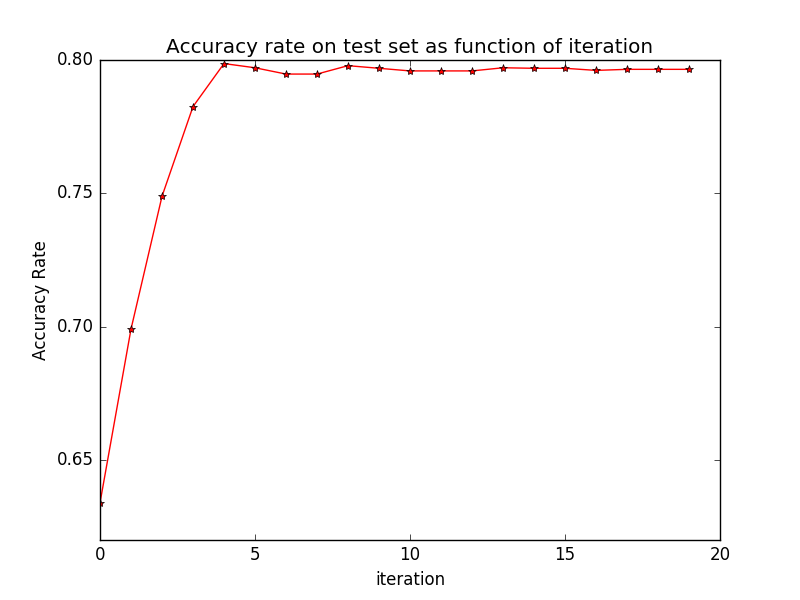
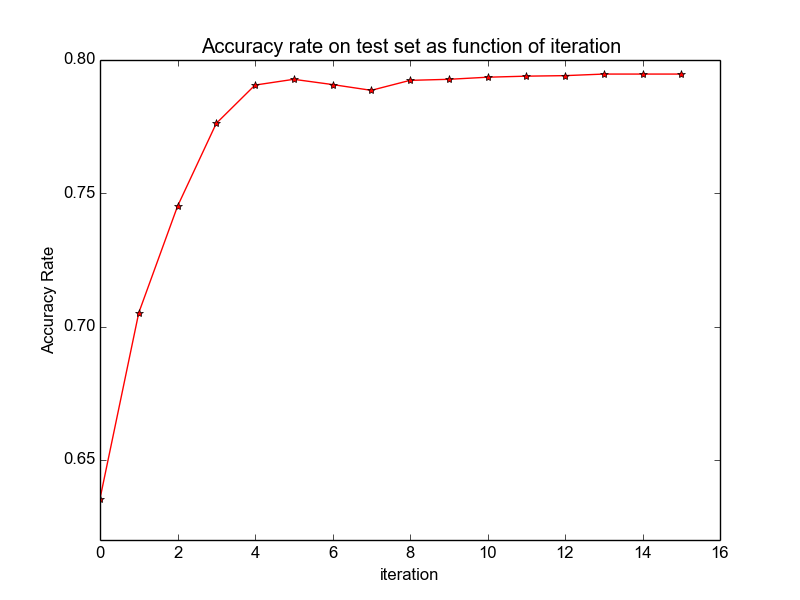
Finish hw5, update plots.

diff --git a/ml_hw5/q4_gmm.py b/ml_hw5/q4_gmm.py
@@ -1,17 +1,16 @@
-import collections
 import os
-import time
 
 from scipy.spatial import distance
 import scipy.misc
 
-SHOW = True
+SHOW = False
 import matplotlib
+
 if not SHOW:
     matplotlib.use('Agg')
 
 from matplotlib import pyplot as plt
-from ml_hw5 import mnist_data
+import mnist_data
 import numpy as np
 
 
@@ -19,6 +18,7 @@ class GaussianMixtureModelOptimizer(object):
     """
     Finds the best GMM to fit the data.
     """
+
     def __init__(self, gmm):
         """
         :param gmm: starting point.
@@ -33,7 +33,7 @@ class GaussianMixtureModelOptimizer(object):
             latent_probs[i][m] = Prob(z_i = m | x_i, theta_t)
         """
         log_likelihoods = [self._gmm.weighted_log_likelihoods(i)
-                       for i in xrange(data_len)]
+                           for i in xrange(data_len)]
         log_probs = [weighted - scipy.misc.logsumexp(weighted) for weighted in log_likelihoods]
         return [np.exp(vec) for vec in log_probs]
 
@@ -65,6 +65,7 @@ class GaussianMixtureModel(object):
 
     Pr(x) = SUM(c[m] * Pr(Gaussian[m](x))
     """
+
     def __init__(self, c_aprior_probs, gaussians):
         """
 
@@ -102,10 +103,8 @@ class GaussianMixtureModel(object):
         :param i:
         :return:
         """
-        res = 0.
-        for c, gaussian in zip(self._c, self._gaussians):
-            res += c * gaussian.log_likelihood(i)
-        return res
+        weighted = self.weighted_log_likelihoods(i)
+        return scipy.misc.logsumexp(weighted)
 
     def weighted_log_likelihoods(self, i):
         """
@@ -150,6 +149,7 @@ class Gaussian(object):
     Gaussian multivariate with diagonal covvariance matrix
     of the form sigma ** 2 * Id.
     """
+
     def __init__(self, u, sigma):
         """
 
@@ -196,7 +196,7 @@ def q4():
         label2x[label] = x
         if len(label2x) == n:
             break
-    gmm = GaussianMixtureModel([1. / n] * n, [Gaussian(label2x[label], 2.) for label in labels])
+    gmm = GaussianMixtureModel([1. / n] * n, [Gaussian(label2x[label], 1.) for label in labels])
     indexed_test_labels = [labels.index(label) for label in mnist_data.test_labels]
 
     optimizer = GaussianMixtureModelOptimizer(gmm)
@@ -209,14 +209,19 @@ def q4():
         log_likelihood = scipy.misc.logsumexp([gmm.log_likelihood(i) for i in xrange(len(mnist_data.train_data))])
         log_likelihoods.append(log_likelihood)
         gmm.preprocess(mnist_data.test_data)
-        accuracies.append(np.sum(gmm.predictions() == np.array(indexed_test_labels, dtype=np.int)) / float(len(mnist_data.test_data)))
+        accuracies.append(np.sum(gmm.predictions() == np.array(indexed_test_labels, dtype=np.int)) /
+                          float(len(mnist_data.test_data)))
+        if len(log_likelihoods) > 1:
+            improvment = log_likelihoods[-1] - log_likelihoods[-2]
+            if improvment < 1e-10:
+                break
     return gmm, labels, accuracies, log_likelihoods
 
 
 def plot_likelihood_scores(output_directory, log_likelihoods):
     plt.cla()
     plt.plot(log_likelihoods, "b*-")
-    plt.title("Log likelihod function of iteration")
+    plt.title("Log likelihood function of iteration")
     plt.xlabel("iteration")
     plt.ylabel("Log-likelihood")
     fname = os.path.join(output_directory, "log_likelihoods.png")
@@ -228,7 +233,7 @@ def plot_likelihood_scores(output_directory, log_likelihoods):
 def plot_final_state(output_directory, gmm, labels):
     for label, gaussian in zip(labels, gmm.gaussians()):
         plt.cla()
-        plt.imshow(np.reshape(gaussian.u() , (28, 28)))
+        plt.imshow(np.reshape(gaussian.u(), (28, 28)))
         plt.title("Digit={}".format(label))
         fname = os.path.join(output_directory, "final_state{:d}.png".format(label))
         plt.savefig(fname)
@@ -242,6 +247,7 @@ def plot_accuracy_rates(output_directory, accuracy_rates):
     plt.ylabel("Accuracy Rate")
     fname = os.path.join(output_directory, "accuracies.png")
     plt.savefig(fname)
+    print "Last accuracy:", accuracy_rates[-1]
     if SHOW:
         plt.show()
 

diff --git a/ml_hw5/main.py b/ml_hw5/main.py
@@ -3,7 +3,7 @@ import sys
 import os
 # Allow any further imports to happen smoothly.
 sys.path.insert(0, os.path.dirname(__file__))
-import ml_hw4.q5_ada_boost
+import q4_gmm
 
 
 def main(argv):
@@ -14,7 +14,7 @@ def main(argv):
     if not os.path.exists(output_directory):
         os.mkdir(output_directory)
     assert os.path.isdir(output_directory)
-    ml_hw4.q5_ada_boost.main(output_directory)
+    q4_gmm.main(output_directory)
 
 
 if __name__ == '__main__':
